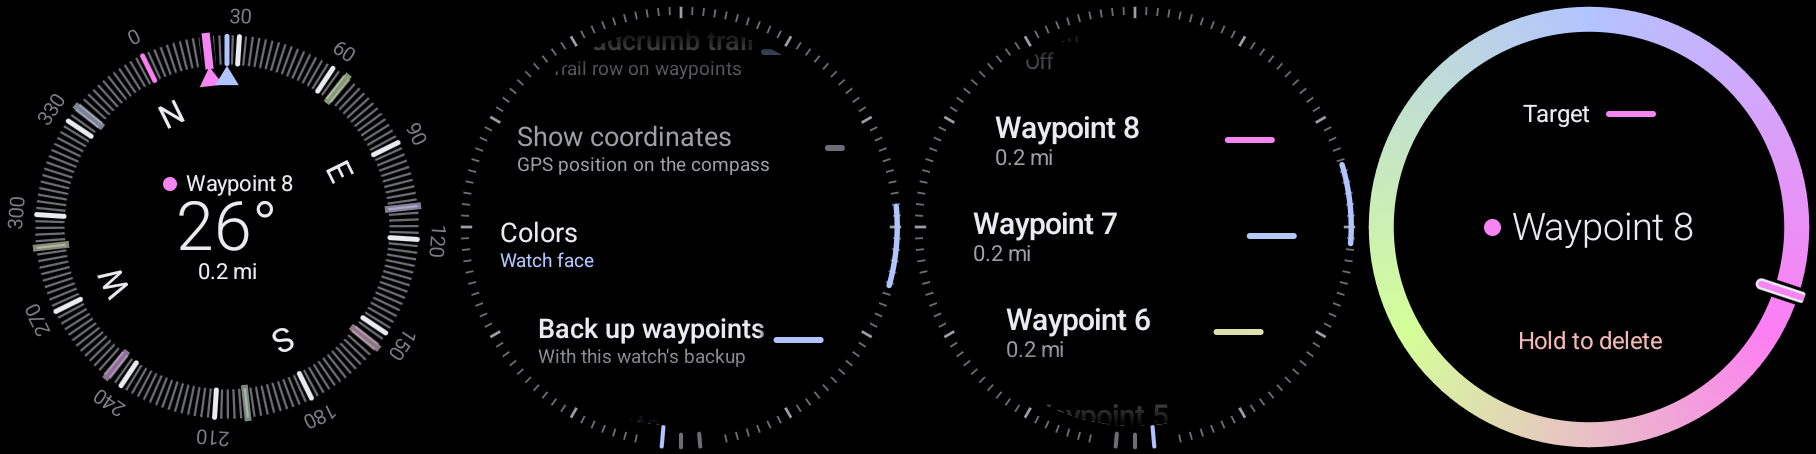
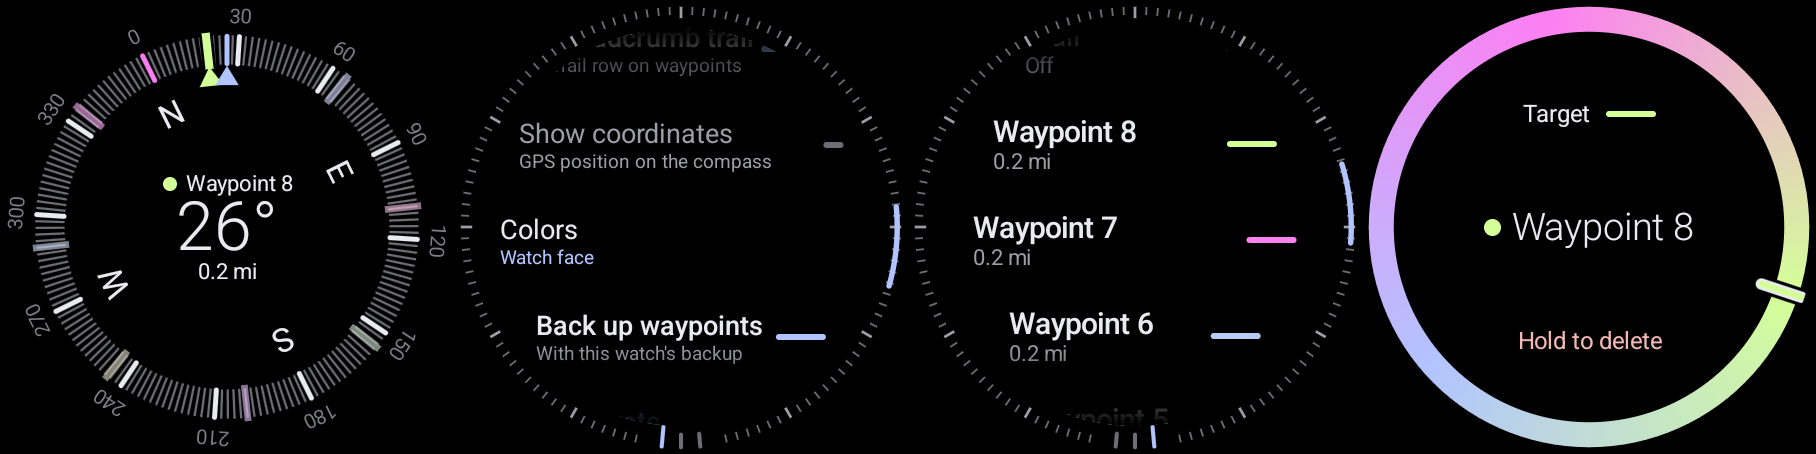
Pictures: Watch face on both sizes again, the ring read turned so the first waypoint (108.3) is the third anchor's yellow-green, not north's pink; index says so and gives Standard's first as #7AFF59
Claude-Session: https://claude.ai/code/session_01KAiVD4eVXLN9qRyssXtjz6

diff --git a/docs/screenshots/README.md b/docs/screenshots/README.md
@@ -151,7 +151,7 @@ The app follows when it next comes back on screen (Home, then open it again). `s
 
 ## Colors
 
-The `colors-standard-` and `colors-watchface-` pictures of the large and small watch were taken again on 2026-10-14, after the accent's least saturation became 0.30, the ring took a third anchor apart from the accent and north, and new waypoints began at 108 degrees: eight targets seeded with `scripts/seed-targets.sh 65:245.8 110:23.3 155:160.8 200:298.4 245:75.9 290:213.4 335:350.9 20:108.3`, the places the app gives its first eight waypoints, with the first one's (108.3) given last so that it is the newest, `Waypoint 8`, and has the focus. Each has four frames: the compass, the settings at the `Colors` row, the waypoints list and the edit screen of `Waypoint 8`, opened with a long press.
+The `colors-standard-` and `colors-watchface-` pictures of the large and small watch were taken again on 2026-10-14, after the accent's least saturation became 0.30, the ring took a third anchor apart from the accent and north, and new waypoints began at 108 degrees: eight targets seeded with `scripts/seed-targets.sh 65:245.8 110:23.3 155:160.8 200:298.4 245:75.9 290:213.4 335:350.9 20:108.3`, the places the app gives its first eight waypoints, with the first one's (108.3) given last so that it is the newest, `Waypoint 8`, and has the focus. The `colors-watchface-` large and small pictures were taken once more on 2026-10-14, after `Watch face` began reading the ring turned so that the first place (108.3) is its third anchor. Each has four frames: the compass, the settings at the `Colors` row, the waypoints list and the edit screen of `Waypoint 8`, opened with a long press.
 
 The others were taken earlier on 2026-10-14, before those three changes, from the debug build, by hand (adb, `scripts/swipe.sh`, `scripts/tap-text.sh`): eight targets seeded with `scripts/seed-targets.sh 20:0 65:45 110:90 155:135 200:180 245:225 290:270 335:315` (each 45 degrees of place apart, 20 degrees of bearing off it), the four frames with the edit screen of `Waypoint 5` (place 180). In those the `Watch face` accent is the one deepened only to 0.15 (`#D8E1FF` on API 35) or not deepened (`#B7CFFF` with the seed `2F8BFF`), and the ring's third anchor is the error color.
 
@@ -159,8 +159,8 @@ In all of them the position was fed and the watch laid flat at a magnetic headin
 
 | State | File | How it was produced |
 |-|-|-|
-| `Standard` (4 frames) | `colors-standard-large`, `colors-standard-small` | API 35, the setting at 1: the colors do not depend on it. The first waypoint (`Waypoint 8`) is green, away from north's red and the pointer's blue |
-| `Watch face`, the API 35 image's scheme (4 frames) | `colors-watchface-large`, `colors-watchface-small` | API 35, the setting at 1, the row tapped to `Watch face`: the pale primary deepened to 0.30 (`#B2C4FF`); the ring of the accent, north (`#FD7EF3`) and a made third anchor (`#D4FF98`), since the error color `#F2B8B5` is 58 degrees of hue from north |
+| `Standard` (4 frames) | `colors-standard-large`, `colors-standard-small` | API 35, the setting at 1: the colors do not depend on it. The first waypoint (`Waypoint 8`) is the wheel's yellow-green/green `#7AFF59` (hue 108), away from north's red and the pointer's blue |
+| `Watch face`, the API 35 image's scheme (4 frames) | `colors-watchface-large`, `colors-watchface-small` | API 35, the setting at 1, the row tapped to `Watch face`: the pale primary deepened to 0.30 (`#B2C4FF`); the ring of the accent, north (`#FD7EF3`) and a made third anchor (`#D4FF98`), since the error color `#F2B8B5` is 58 degrees of hue from north. The first waypoint (`Waypoint 8`, place 108.3) is the third anchor's yellow-green, not north's pink; on the edit ring north is near 12 o'clock (348.3) and the accent at 228.3 |
 | `Watch face`, seed `2F8BFF` (4 frames) | `colors-watchface-api37-large` | `Wear_OS_Newest` (API 37), the setting at 1 (taken before the three changes above) |
 | The top of the settings, `Standard` and `Watch face` (2 frames) | `colors-settings-top-large`, `colors-settings-top-small` | API 35: the fades at the list's ends and at the rows' ticks, over the black field, in both modes (taken before the three changes above) |
 | No scheme: the compass with `Watch face` stored, and the row (2 frames) | `colors-not-available-large`, `colors-not-available-small`, `colors-not-available-api37-large` | API 35 and 37, the setting put to 0 with `Watch face` stored |
